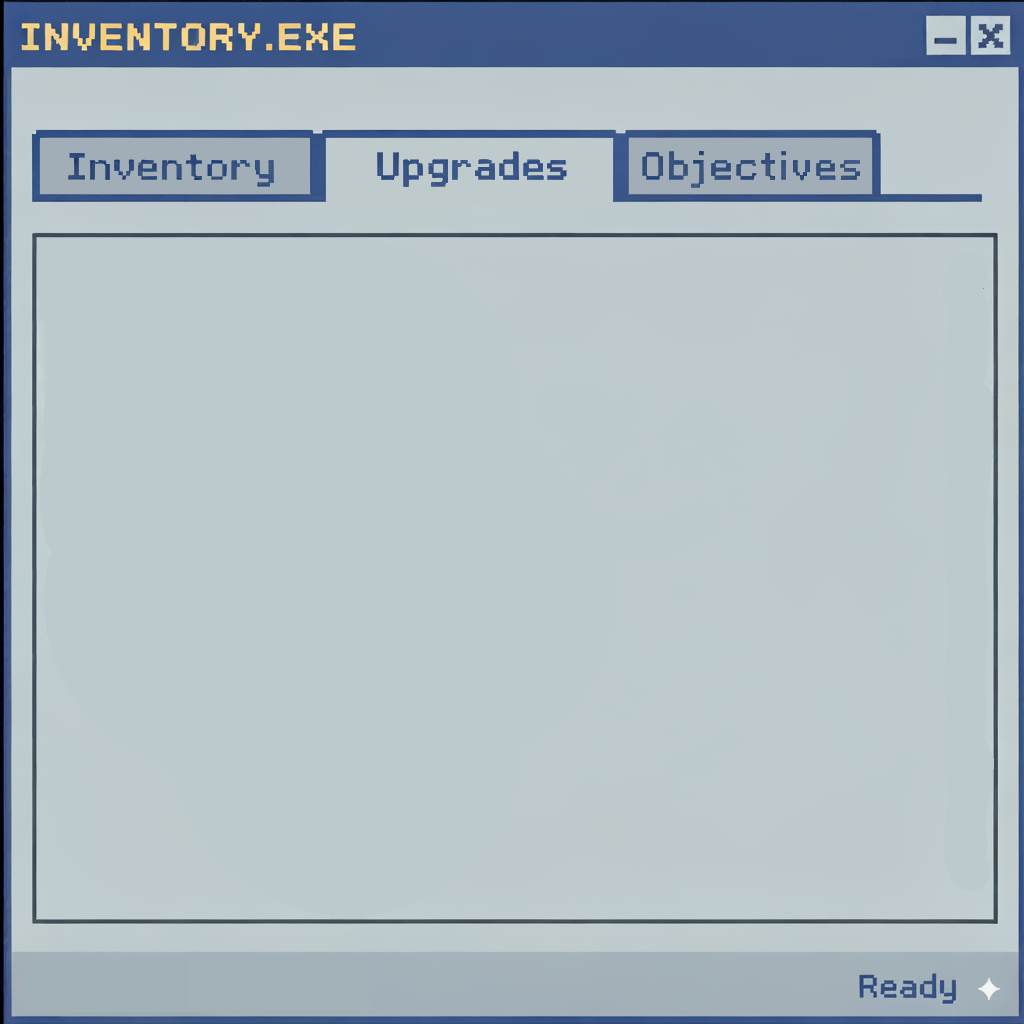
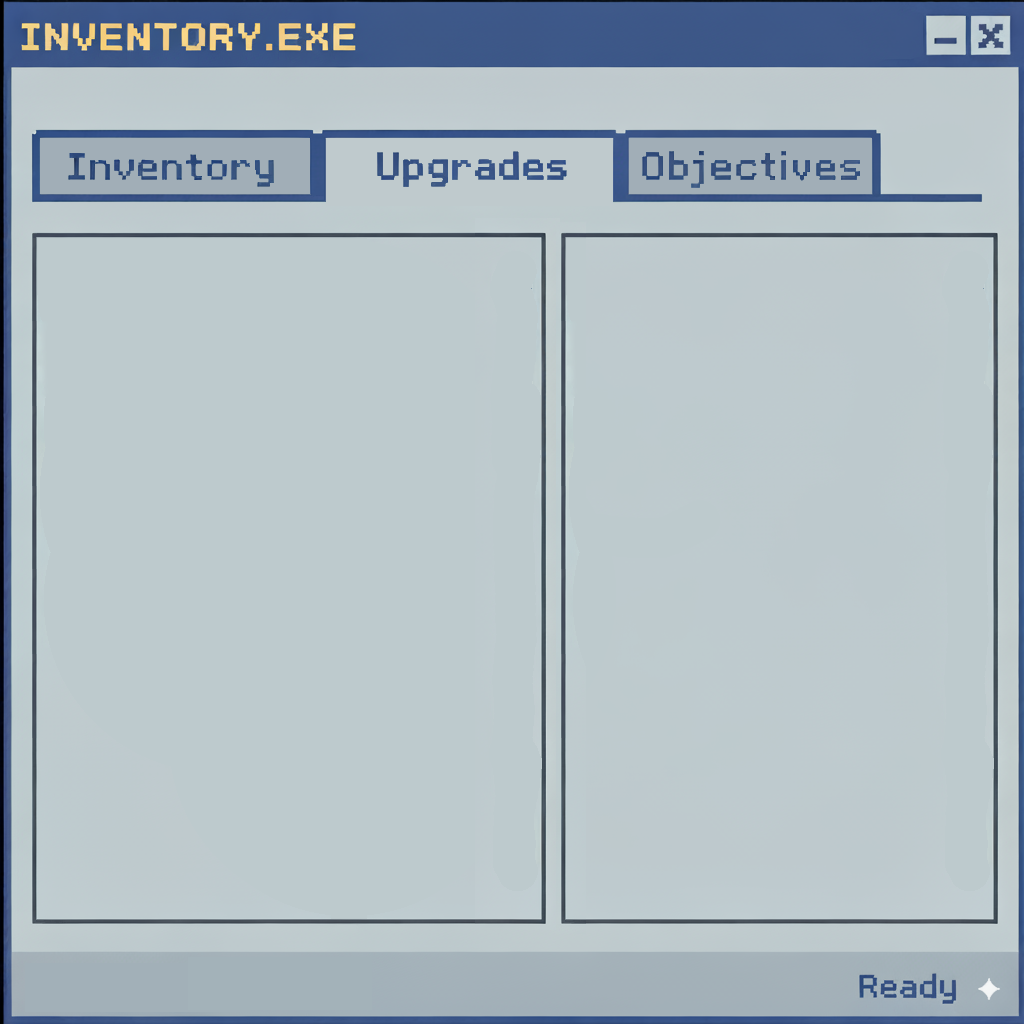
Changed player position in Upgrades tab and retextured upgrades tab appropriately for this

Changed region(s): [[0.5312, 0.2188, 0.5625, 0.9062]]

diff --git a/source/core/src/main/com/csse3200/game/ui/inventoryscreen/UpgradesTab.java b/source/core/src/main/com/csse3200/game/ui/inventoryscreen/UpgradesTab.java
@@ -117,7 +117,7 @@ public class UpgradesTab implements InventoryTabInterface {
     int bgW = bgTex.getWidth();
 
     // Center horizontally
-    int playerX = (bgW - playerTex.getWidth()) / 2;
+    int playerX = (bgW - playerTex.getWidth()) / 10;
     int playerY = PLAYER_TOP_Y;
 
     // Read upgrades bag (defensive default to empty)
@@ -132,12 +132,12 @@ public class UpgradesTab implements InventoryTabInterface {
 
     // Underlay the chosen pack beneath the player
     if (showJetpack) {
-      int px = (bgW - packTex.getWidth()) / 2;
+      int px = (bgW - packTex.getWidth()) / 10;
       int py = PLAYER_TOP_Y;
       placer.addOverlay(new com.badlogic.gdx.scenes.scene2d.ui.Image(packTex),
               new Rect(px, py, packTex.getWidth(), packTex.getHeight()));
     } else if (showGlider) {
-      int px = (bgW - gliderTex.getWidth()) / 2;
+      int px = (bgW - gliderTex.getWidth()) / 10;
       int py = PLAYER_TOP_Y;
       placer.addOverlay(new com.badlogic.gdx.scenes.scene2d.ui.Image(gliderTex),
               new Rect(px, py, gliderTex.getWidth(), gliderTex.getHeight()));
